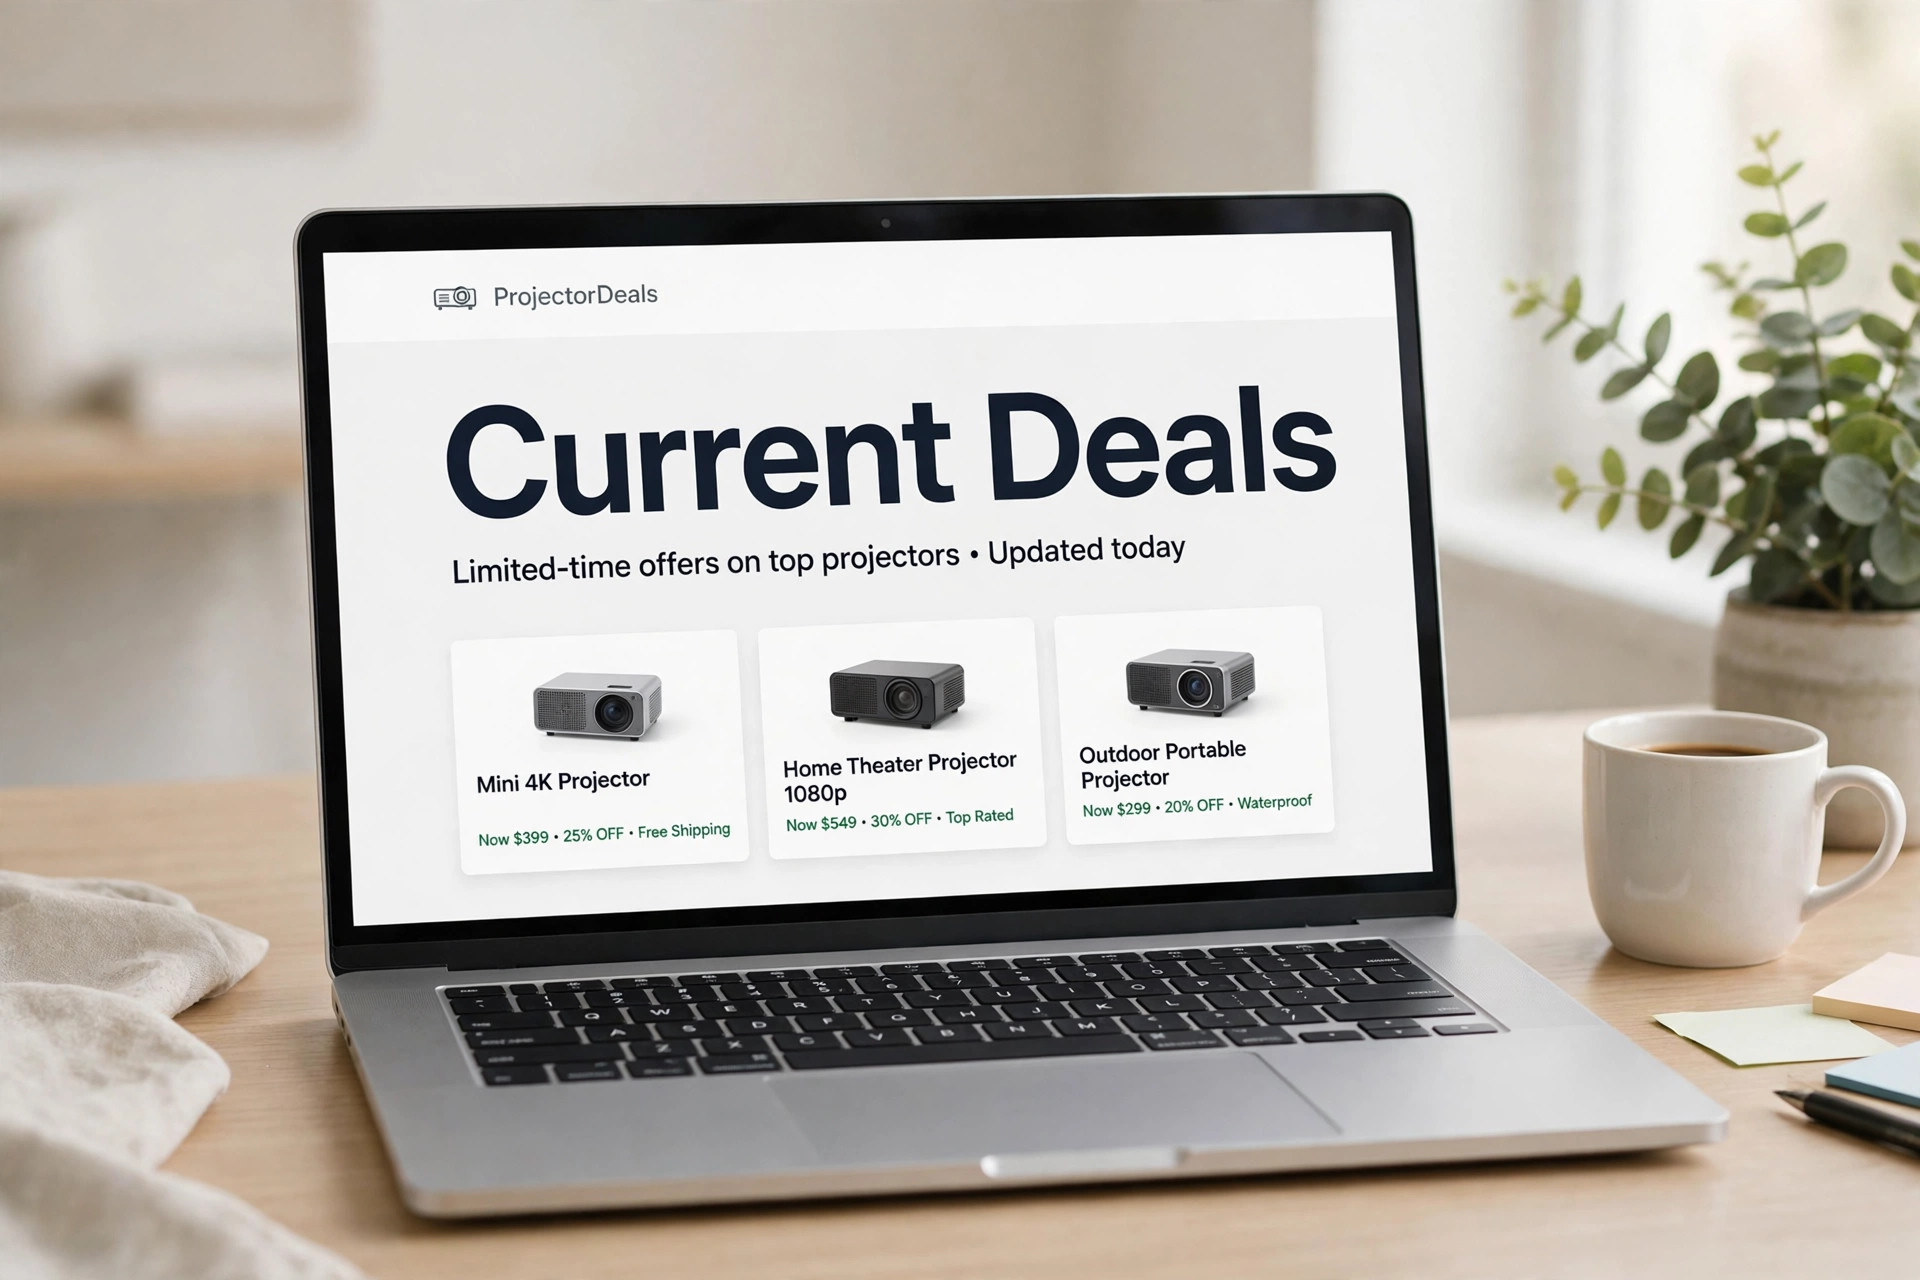
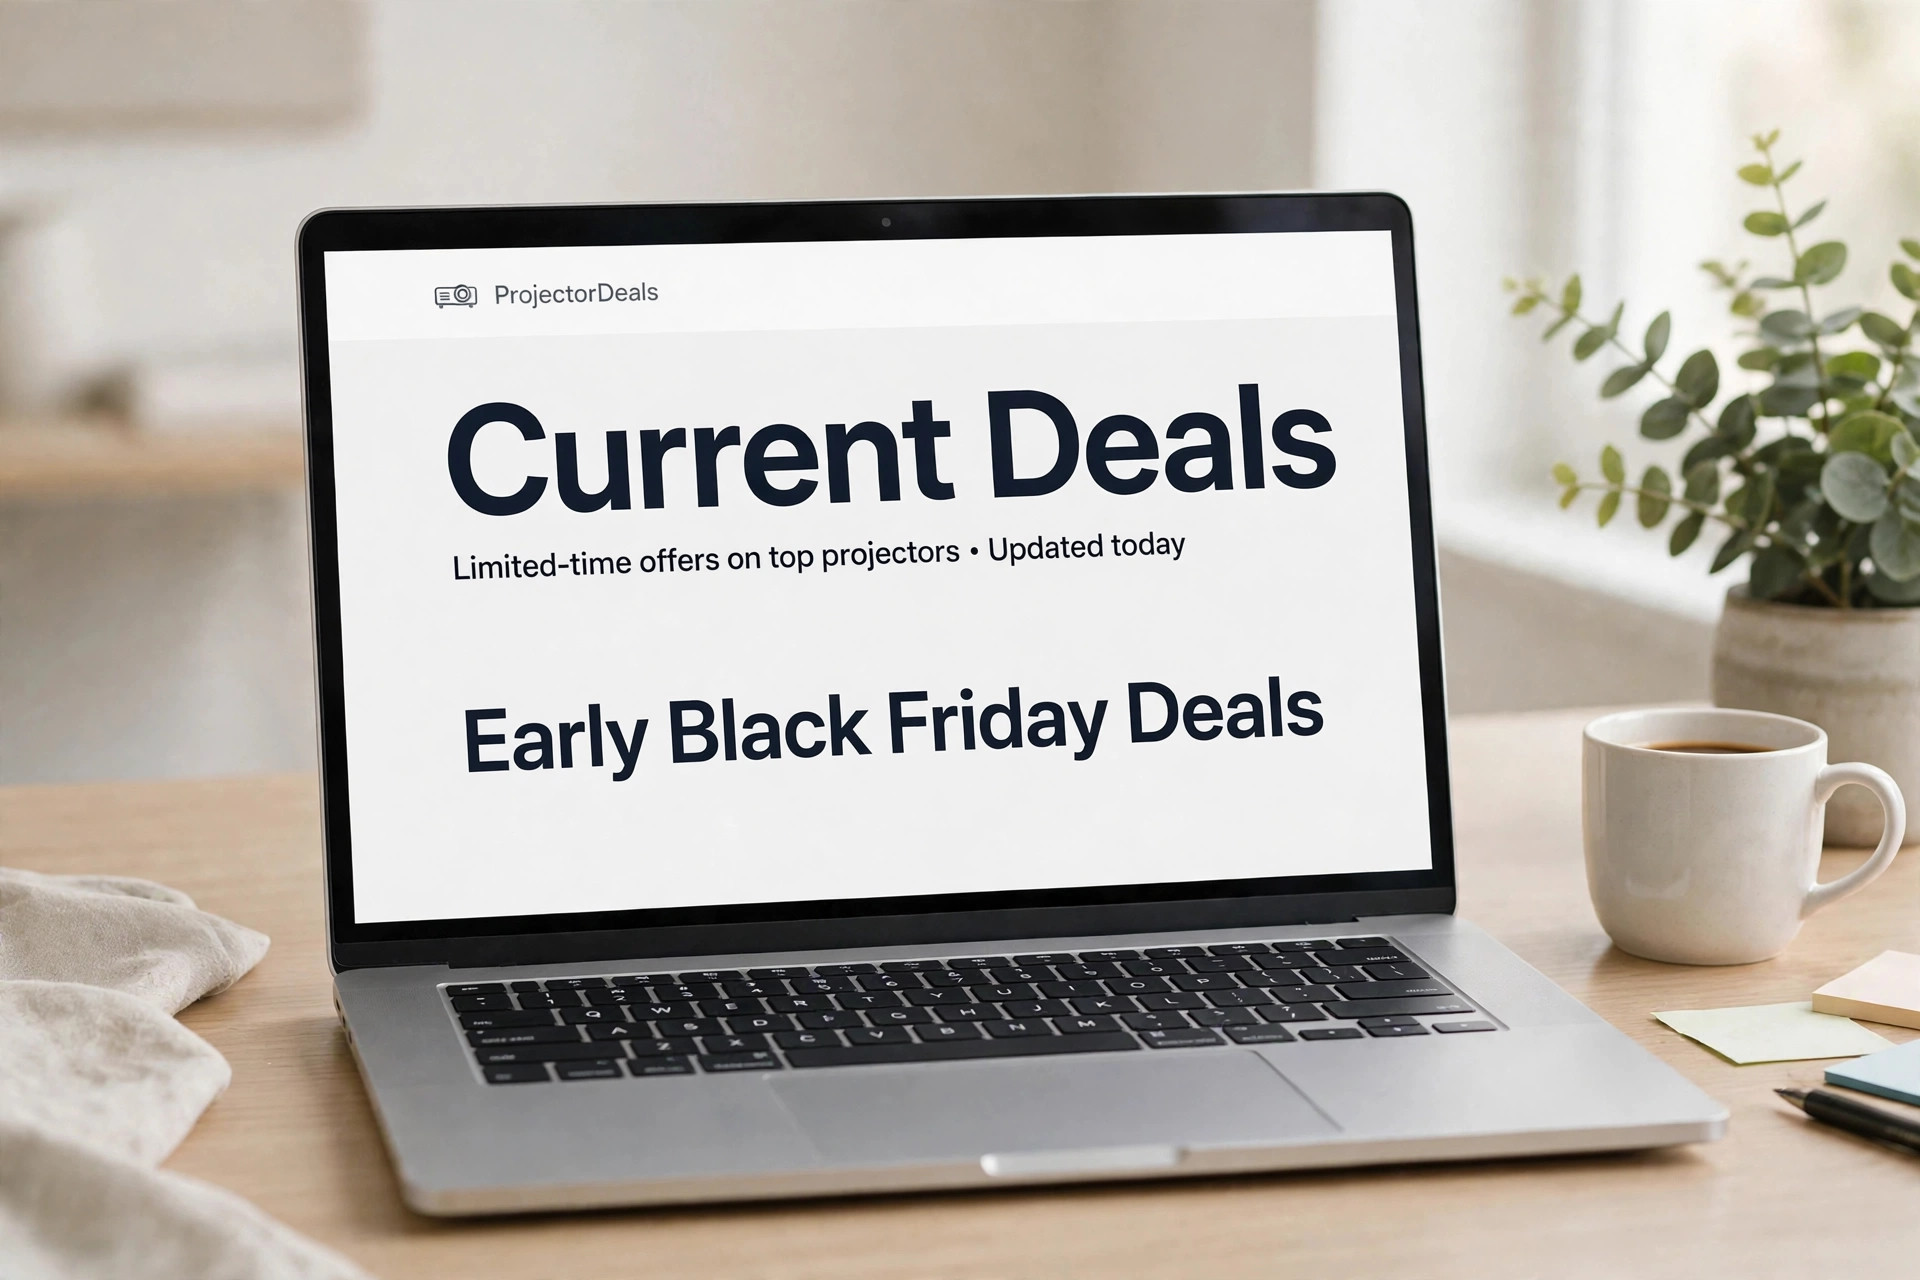
Homepage deals photo: cards removed, Early Black Friday Deals on screen

diff --git a/index.html b/index.html
@@ -38,7 +38,7 @@
     <p class="label">Current Deals</p>
     <h2>Early Black Friday Deals Are Here!</h2>
     <p class="lede">Black Friday sales are running now across projectors, screens, and power stations: Nothing Projector screens up to 65% off sitewide, JMGO Black Friday Early Bird pricing, and BLUETTI and EcoFlow power station sales through November 18. Every deal is checked by hand against regular prices.</p>
-    <img src="images/current-deals-laptop.jpg" alt="A laptop on a desk showing the Current Deals page with projector offers on its screen" style="width: 100%; max-width: 640px; height: auto; border-radius: 12px; margin-top: 24px;">
+    <img src="images/current-deals-laptop.jpg" alt="A laptop on a desk showing Current Deals and Early Black Friday Deals on its screen" style="width: 100%; max-width: 640px; height: auto; border-radius: 12px; margin-top: 24px;">
     <p style="margin-top: 24px;"><a class="btn" href="current-deals.html" aria-label="See Current Deals: Black Friday projector, screen, and power station deals">See Current Deals</a></p>
   </div>
 </section>
